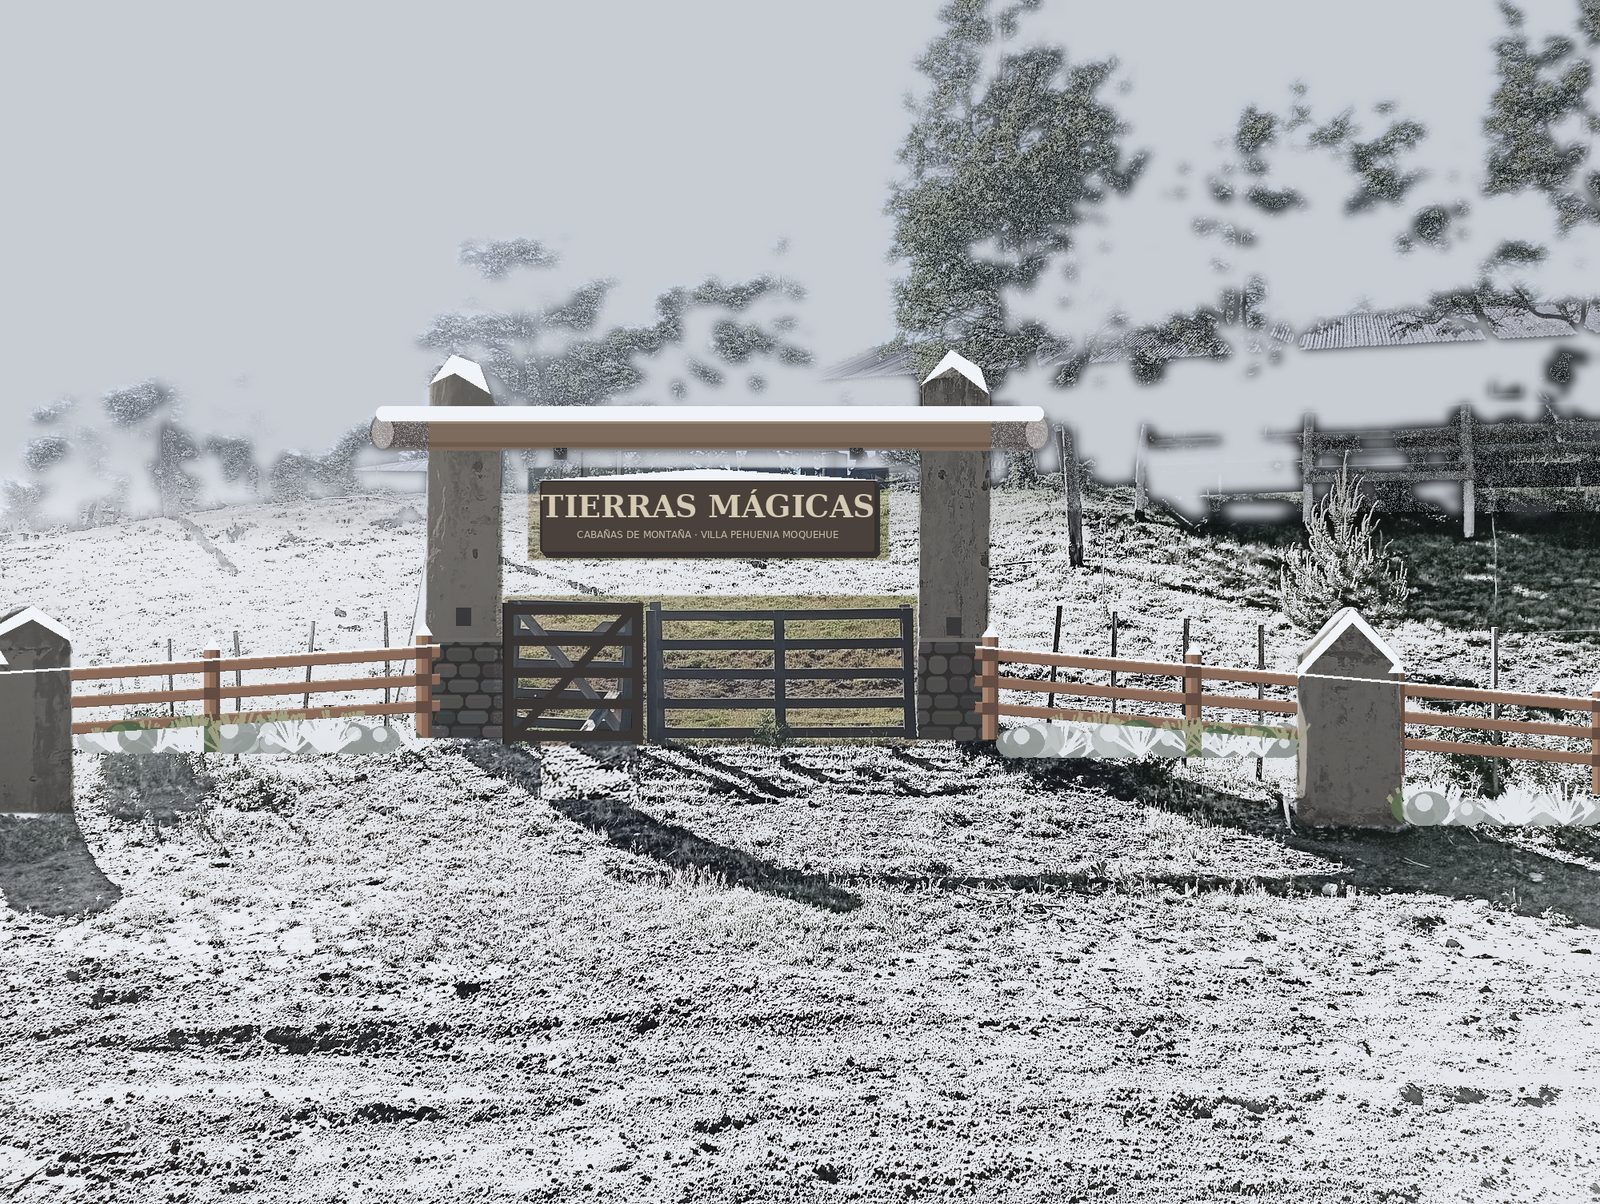
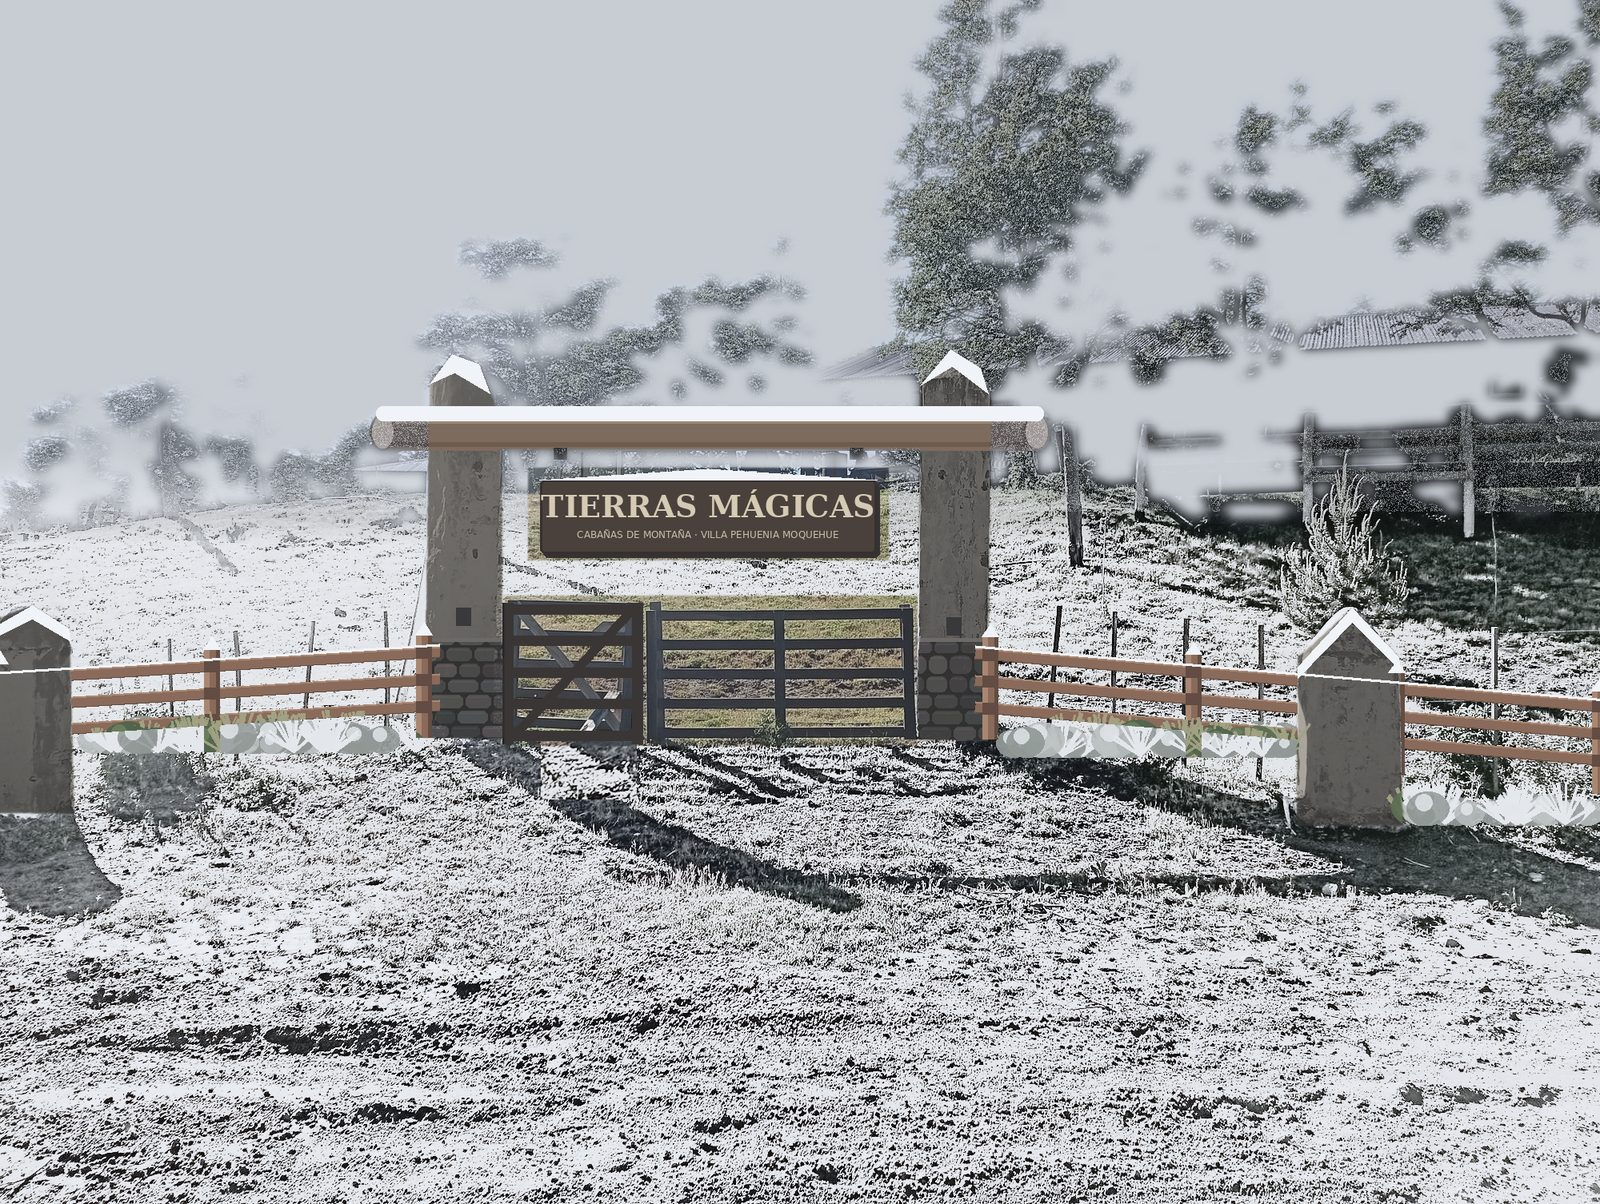
Acceso rev. 3: vista desde el interior y hallazgos de las fotos internas
Portal de 6 m confirmado. Fotomontaje interior con cara 'Buen viaje',
pantalla vegetal para la tina, obra vial en la RP 11, cajas del pilar
de medidores en ambas caras y tanques de gas.

Claude-Session: https://claude.ai/code/session_01JmsTv2qsXNt3Kgp45ve7Pd

diff --git a/docs/acceso/index.html b/docs/acceso/index.html
@@ -69,9 +69,9 @@ footer{margin-top:56px;padding-top:16px;border-top:1px solid var(--line);font-si
 
 <div class="wrap">
 <header class="portada">
-  <span class="eyebrow">PLC-02 · Anteproyecto · revisión 2 · 28/11/2026</span>
+  <span class="eyebrow">PLC-02 · Anteproyecto · revisión 3 · 28/11/2026</span>
   <h1>Rediseño y refacción del acceso a Tierras Mágicas</h1>
-  <p class="lead">RP 11 Km 8,2, Villa Pehuenia Moquehue, Neuquén. Análisis de las 11 fotos del estado actual, tres alternativas con reuso de lo existente, alternativa recomendada por etapas, cómputo y plan de ejecución. Las imágenes de propuesta son fotomontajes ilustrativos sobre las fotos originales, no renders fotorrealistas.</p>
+  <p class="lead">RP 11 Km 8,2, Villa Pehuenia Moquehue, Neuquén. Análisis de 18 fotos del estado actual (11 desde la ruta y 7 desde el interior), tres alternativas con reuso de lo existente, alternativa recomendada por etapas, cómputo y plan de ejecución. Las imágenes de propuesta son fotomontajes ilustrativos sobre las fotos originales, no renders fotorrealistas.</p>
   <div class="ficha">
     <div><b>Decisión a tomar</b>Qué alternativa ejecutar y qué etapa hacer antes de la temporada alta de enero</div>
     <div><b>Recomendación</b>Alternativa 2 «Patagónico natural», en 3 etapas; la etapa 1 entra en diciembre</div>
@@ -89,7 +89,7 @@ footer{margin-top:56px;padding-top:16px;border-top:1px solid var(--line);font-si
     <li><b>Dirección:</b> RP 11 Km 8,2. Ojo: el plano municipal de relevamiento rotula la ruta como «RP Nº 11 Km 11»; conviene que coincidan en la próxima presentación.</li>
     <li><b>Texto del cartel:</b> «Tierras Mágicas · Cabañas de montaña · Villa Pehuenia Moquehue».</li>
     <li><b>Frente sobre la ruta:</b> 59,54 m, con retiro de frente de 2,00 m (plano municipal, lámina 1/3). Lote de 3608,70 m².</li>
-    <li><b>Luz entre pilares del portal:</b> unos 6 m.</li>
+    <li><b>Luz entre pilares del portal:</b> 6 m (confirmado).</li>
     <li><b>Viga del portal:</b> está podrida y se reemplaza en todas las alternativas.</li>
     <li><b>Pilar de medidores:</b> se puede revestir.</li>
     <li><b>Cerca:</b> se adopta la tipología de las fotos de referencia: postes escuadrados con punta y 3 travesaños pasantes.</li>
@@ -229,7 +229,28 @@ footer{margin-top:56px;padding-top:16px;border-top:1px solid var(--line);font-si
   <figure><img src="fotos/F09.jpg" alt="Vista actual desde la ruta"><figcaption>Actual · F09 desde la ruta.</figcaption></figure>
   <figure><img src="montajes/A2_vista_desde_ruta_F09.jpg" alt="Vista desde la ruta con la alternativa 2"><figcaption>Alternativa 2 · mojones en gris piedra, cerca de travesaños, zócalo bajo los medidores, placa de ingreso vehicular y tabla en el portal.</figcaption></figure>
 </div>
-<div class="aviso"><b>Vista desde el interior: las fotos no llegaron.</b> En la revisión 2 se recibieron el plano y las 2 fotos de referencia de la cerca, pero ninguna foto desde adentro del predio hacia la ruta. Para representarla hacen falta 2 fotos: una desde el quincho hacia el portal y otra desde el camino interno hacia la tranquera, a la altura de los ojos. El criterio desde adentro es el mismo: la cara interior de pilares y mojones lleva la misma terminación, y la tabla del cartel puede llevar del lado de adentro «Buen viaje».</div>
+<h3>Desde el interior</h3>
+<div class="grid2">
+  <figure><img src="montajes/I04_interior_actual.jpg" alt="Portal visto desde adentro, estado actual"><figcaption>Actual · I04. Desde adentro, el portal enmarca los picos nevados. La cara interior del portón está gris, sin pintar.</figcaption></figure>
+  <figure><img src="montajes/A2_vista_desde_interior_I04.jpg" alt="Portal visto desde adentro con la alternativa 2"><figcaption>Alternativa 2 · viga nueva, pilares en gris piedra con zócalo, portón pintado en las dos caras, cerca del lado de adentro de los mojones y la cara interior del cartel con «Buen viaje».</figcaption></figure>
+</div>
+<h3>Lo que muestran las 7 fotos del interior</h3>
+<div class="tabla"><table>
+<thead><tr><th>Foto</th><th>Hallazgo</th><th>Consecuencia para el proyecto</th></tr></thead>
+<tbody>
+<tr><td class="mono">I01, I05, I06</td><td><span class="tag t-hecho">HECHO</span> Hay obra vial en la RP 11: cartel de desvío, mixer, cisterna, máquinas y polvo.</td><td>Antes de fijar el borde exterior, consultar a Vialidad Provincial si cambia el nivel, el ancho o los desagües de la ruta. Plantar la faja exterior cuando termine la obra.</td></tr>
+<tr><td class="mono">I02, I04</td><td><span class="tag t-hecho">HECHO</span> Entre la cerca y la calzada hay una franja ancha de tierra removida, con una huella en Y que conecta con la ruta.</td><td>Hace de antesala del acceso. No se planta ni se construye ahí hasta saber si es parte del lote o zona de camino.</td></tr>
+<tr><td class="mono">I04</td><td><span class="tag t-hecho">HECHO</span> Desde adentro, el portal enmarca los picos nevados.</td><td>Es la mejor visual del frente. El cartel del lado interior queda chico y no se plantan árboles en ese eje.</td></tr>
+<tr><td class="mono">I04, I05</td><td><span class="tag t-hecho">HECHO</span> La cara interior de los portones está gris, sin pintar.</td><td>El impregnante va en las dos caras, porque desde las cabañas también se ven.</td></tr>
+<tr><td class="mono">I01, I02</td><td><span class="tag t-hecho">HECHO</span> El pilar de medidores tiene cajas en las dos caras. Del lado de adentro hay un tablero con térmicas y una caja a unos 0,30 m del suelo.</td><td>El zócalo de piedra bordea las cajas dejando 5 cm libres, o se baja a 0,35 m. Que el electricista confirme si el circuito de luces puede salir de ese tablero.</td></tr>
+<tr><td class="mono">I02</td><td><span class="tag t-hecho">HECHO</span> La tranquera vehicular tiene una hoja grande, una chica y un panel fijo contra el mojón.</td><td>Se restaura completa; no hace falta reemplazarla.</td></tr>
+<tr><td class="mono">I01</td><td><span class="tag t-hecho">HECHO</span> Las varillas del alambrado son de hierro, con óxido.</td><td>Cuando se retire el alambrado se pueden reusar en cercos internos.</td></tr>
+<tr><td class="mono">I03, I04</td><td><span class="tag t-hecho">HECHO</span> Los mojones quedan del lado de la ruta y el alambrado del lado de adentro.</td><td>La cerca nueva sigue la línea del alambrado: desde la ruta se ven los mojones por delante y desde adentro, la cerca por delante.</td></tr>
+<tr><td class="mono">I05</td><td><span class="tag t-hecho">HECHO</span> Hay 3 tanques de gas en el sector derecho, cerca del ingreso vehicular.</td><td>No se ponen luminarias, cableado ni coníferas junto a los tanques. Se respetan las distancias que fije el gasista matriculado.</td></tr>
+<tr><td class="mono">I06</td><td><span class="tag t-hecho">HECHO</span> Desde la tina se ven la ruta, el tránsito de obra y el polvo. <span class="tag t-inf">INFERENCIA</span> Desde la ruta también se ve a quienes usan la tina.</td><td>Pantalla vegetal de nativas de 1,2 a 1,8 m entre la tina y la cerca, por debajo de la línea de la montaña (ver imagen).</td></tr>
+<tr><td class="mono">I07</td><td><span class="tag t-hecho">HECHO</span> En el extremo derecho, el renoval denso de ñires ya tapa la ruta.</td><td>Se conserva tal como está; no hace falta cerca de travesaños ahí, alcanza con el alambrado.</td></tr>
+</tbody></table></div>
+<figure style="margin-top:12px"><img src="montajes/00_tina_pantalla_vegetal_I06.jpg" alt="Ubicación de la pantalla vegetal entre la tina y la ruta"><figcaption>I06 · Dónde va la pantalla vegetal: tapa la ruta y deja ver el cerro.</figcaption></figure>
 
 <!-- ============ 6 ESTACIONES ============ -->
 <h2 id="estaciones"><span class="n">06</span>Alternativa 2 en las cuatro estaciones</h2>
@@ -425,6 +446,7 @@ footer{margin-top:56px;padding-top:16px;border-top:1px solid var(--line);font-si
 <tr><td>Iluminación</td><td>Luminarias</td><td>u</td><td class="num">1</td><td class="num">5</td><td class="num">9</td><td>Nuevo</td></tr>
 <tr><td></td><td>Cable en caño + zanja</td><td>m</td><td class="num">10</td><td class="num">59</td><td class="num">59</td><td>Nuevo</td></tr>
 <tr><td>Paisajismo</td><td>Plantas nativas</td><td>u</td><td class="num">35</td><td class="num">116</td><td class="num">175</td><td>Nuevo</td></tr>
+<tr><td></td><td>Pantalla de la tina, arbustos de 1,2-1,8 m</td><td>u</td><td class="num">—</td><td class="num">12</td><td class="num">12</td><td>Nuevo</td></tr>
 <tr><td></td><td>Cobertura 5 cm</td><td>m³</td><td class="num">0,6</td><td class="num">1,9</td><td class="num">2,9</td><td>Nuevo o del predio</td></tr>
 <tr><td></td><td>Ampliación de goteo</td><td>m</td><td class="num">15</td><td class="num">49</td><td class="num">73</td><td>Reutilizado + ampliación</td></tr>
 </tbody></table></div>
@@ -460,10 +482,10 @@ footer{margin-top:56px;padding-top:16px;border-top:1px solid var(--line);font-si
 <!-- ============ 13 ETAPAS ============ -->
 <h2 id="etapas"><span class="n">13</span>Plan de ejecución por etapas (alternativa 2)</h2>
 <ol class="etapas">
-  <li><b>Etapa 0 · Relevamiento y decisión (diciembre, 1 semana).</b> Ya están el frente, la luz del portal, el estado de la viga, el pilar de medidores, la dirección y el texto del cartel. Falta: medir el ingreso vehicular, el cerco interno, los pilares y los mojones; mandar las fotos desde el interior; encargar la viga y la madera de la cerca; pedir cotizaciones. <span class="tag t-dec">GATE</span> Seguir solo con medidas, verificación y precios.</li>
+  <li><b>Etapa 0 · Relevamiento y decisión (diciembre, 1 semana).</b> Ya están el frente, la luz del portal, el estado de la viga, el pilar de medidores, la dirección, el texto del cartel y las fotos del interior. Falta: medir el ingreso vehicular, el cerco interno, los pilares y los mojones; consultar a Vialidad por la obra de la ruta; encargar la viga y la madera de la cerca; pedir cotizaciones. <span class="tag t-dec">GATE</span> Seguir solo con medidas, verificación y precios.</li>
   <li><b>Etapa 1 · Imagen para la temporada alta (diciembre, antes de enero).</b> Equivale a la alternativa 1: limpieza, reparación y pintura gris piedra (antes, una muestra de 50 × 50 cm en un mojón), portones, <b>viga nueva</b> (por seguridad no conviene esperar: una viga podrida sobre un paso puede caer) y placa de ingreso vehicular. Mano de obra propia. Quita el efecto lápida desde el primer huésped de enero.</li>
   <li><b>Etapa 2 · Cerca y cartel (febrero-marzo).</b> Cerca de postes escuadrados con retiro del alambrado, tabla colgada de la viga nueva, travesaño en el camino interno, zanja y cañería para la iluminación.</li>
-  <li><b>Etapa 3 · Piedra, luz y plantas (marzo-abril, antes de las heladas).</b> Zócalos de piedra con temperatura favorable para el mortero, conexión y puesta en marcha de las luces, plantación de otoño con cobertura y goteo.</li>
+  <li><b>Etapa 3 · Piedra, luz y plantas (marzo-abril, antes de las heladas).</b> Incluye la pantalla vegetal de la tina. Zócalos de piedra con temperatura favorable para el mortero, conexión y puesta en marcha de las luces, plantación de otoño con cobertura y goteo.</li>
   <li><b>Etapa 4 · Opcional (siguiente temporada).</b> Elementos de la alternativa 3 que hagan falta según el resultado, por ejemplo el portón peatonal nuevo si el existente no se recupera bien.</li>
 </ol>
 
@@ -473,9 +495,8 @@ footer{margin-top:56px;padding-top:16px;border-top:1px solid var(--line);font-si
 <thead><tr><th>Tipo</th><th>Descripción</th><th>Mitigación</th></tr></thead>
 <tbody>
 <tr><td><span class="tag t-falta">FALTA</span></td><td>Ancho del ingreso vehicular, largo del cerco interno, altura y sección de pilares y mojones, cantidad exacta de mojones</td><td>Etapa 0; la planilla se recalcula sola</td></tr>
-<tr><td><span class="tag t-falta">FALTA</span></td><td>Fotos desde el interior hacia la ruta (no llegaron)</td><td>2 fotos a la altura de los ojos</td></tr>
 <tr><td><span class="tag t-falta">FALTA</span></td><td>Estado de la cabeza de los pilares donde apoyaba la viga podrida</td><td>Revisar al desmontar; reparar antes de apoyar la viga nueva</td></tr>
-<tr><td><span class="tag t-sup">SUPUESTO</span></td><td>Que «unos 6» sea la luz entre los pilares del portal, en metros</td><td>Confirmar; si es la distancia entre mojones, no cambia el tipo de cerca, solo dónde caen los postes</td></tr>
+<tr><td>Riesgo</td><td>La obra vial cambia el borde, el nivel o los desagües frente al lote</td><td>Consultar a Vialidad antes de la etapa 2; plantar la faja exterior al final de la obra</td></tr>
 <tr><td><span class="tag t-sup">SUPUESTO</span></td><td>Que los pilares sean de mampostería revocada (por el ladrillo a la vista en F11)</td><td>Confirmar picando un sector</td></tr>
 <tr><td><span class="tag t-sup">SUPUESTO</span></td><td>Que los postes del alambrado sean varillas finas de madera o hierro</td><td>Ver en obra; los torcidos se reemplazan</td></tr>
 <tr><td>Riesgo</td><td>El color gris piedra puede verse frío o demasiado oscuro en el lugar</td><td>Muestra en un mojón, mirada a distintas horas antes de pintar todo</td></tr>

diff --git a/docs/acceso/montajes/generar_montajes.py b/docs/acceso/montajes/generar_montajes.py
@@ -519,6 +519,69 @@ def diagnostico_portal():
     return img
 
 
+
+# ---------------- Vista desde el interior (I04) con alternativa 2 ----------------
+
+I04 = {
+    "pilar_izq": [(705, 668), (735, 645), (765, 665), (775, 700), (776, 1026), (704, 1026)],
+    "pilar_der": [(1205, 675), (1240, 655), (1275, 680), (1281, 720), (1279, 1028), (1202, 1028)],
+    "mojones": [[(463, 872), (498, 848), (532, 870), (541, 976), (462, 976)],
+                [(1392, 872), (1420, 850), (1448, 875), (1450, 956), (1391, 956)],
+                [(1928, 882), (1965, 860), (2000, 880), (2000, 996), (1928, 996)]],
+}
+
+
+def interior_alternativa_2():
+    img = Image.open(FOTOS / "I04.jpg").convert("RGB")
+    m = mascara(img.size, [I04["pilar_izq"], I04["pilar_der"]] + I04["mojones"])
+    img = teñir(img, m)
+    img = zocalo(img, I04["pilar_izq"], 976)
+    img = zocalo(img, I04["pilar_der"], 978)
+    # Cara interior del portón: hoy está gris sin pintar; se pinta igual que la exterior
+    a = np.asarray(img).astype(float)
+    x0, y0, x1, y1 = 778, 896, 1192, 1032
+    caja = a[y0:y1, x0:x1]
+    mx, mn = caja.max(axis=2), caja.min(axis=2)
+    madera = ((mx - mn) < 38) & (mx < 200)
+    caja[madera] = caja[madera] * 0.32 + np.array([30, 24, 20]) * 0.68
+    a[y0:y1, x0:x1] = caja
+    img = Image.fromarray(a.astype("uint8"))
+    frente = img.copy()
+    viga_nueva(img, 636, 1345, 711, 749)
+    # La cerca queda del lado de adentro de los mojones: se dibuja por delante
+    cerca_travesaños(img, [((0, 1000), (704, 1000), 85), ((1281, 1003), (2000, 1009), 85)],
+                     encima=mascara(img.size, [[(84, 700), (142, 700), (146, 1142), (84, 1142)]]))
+    # Cara interior del cartel: mensaje de despedida
+    d = ImageDraw.Draw(img)
+    cx, yt, an, al = 990, 775, 300, 64
+    for xc in (cx - an // 3, cx + an // 3):
+        d.line([xc, 749, xc, yt], fill=(40, 40, 40), width=3)
+    d.polygon([(cx - an // 2 - 5, yt), (cx, yt - 12), (cx + an // 2 + 5, yt)], fill=(36, 30, 26))
+    d.rounded_rectangle([cx - an // 2, yt, cx + an // 2, yt + al], radius=5, fill=(58, 40, 28), outline=(32, 22, 16), width=3)
+    f = ImageFont.truetype(SERIF, 28)
+    t = "BUEN VIAJE"
+    d.text((cx - d.textlength(t, font=f) / 2, yt + 8), t, font=f, fill=(226, 205, 160))
+    f2 = ImageFont.truetype(SANS, 13)
+    t2 = "GRACIAS POR ELEGIR TIERRAS MÁGICAS"
+    d.text((cx - d.textlength(t2, font=f2) / 2, yt + 44), t2, font=f2, fill=(210, 190, 150))
+    return img
+
+
+def tina_pantalla():
+    """Anota sobre I06 dónde conviene una pantalla vegetal entre la tina y la ruta."""
+    img = Image.open(FOTOS / "I06.jpg").convert("RGB")
+    capa = Image.new("RGBA", img.size, (0, 0, 0, 0))
+    d = ImageDraw.Draw(capa)
+    d.polygon([(130, 900), (560, 820), (1000, 760), (1150, 700), (1160, 800), (1020, 870), (600, 930), (150, 990)],
+              fill=(60, 140, 70, 110), outline=(40, 110, 50, 255))
+    f = ImageFont.truetype(SANS, 30)
+    for i, t in enumerate(["Pantalla de nativas 1,2-1,8 m entre la tina y la ruta:",
+                           "tapa tránsito y polvo, deja ver la montaña"]):
+        tw = d.textlength(t, font=f)
+        d.rounded_rectangle([600 - tw / 2 - 10, 640 + i * 44, 600 + tw / 2 + 10, 680 + i * 44], radius=8, fill=(20, 20, 20, 200))
+        d.text((600 - tw / 2, 643 + i * 44), t, font=f, fill=(255, 220, 120))
+    return Image.alpha_composite(img.convert("RGBA"), capa).convert("RGB")
+
 def guardar(img, nombre, ancho=1600):
     img = img.resize((ancho, int(ancho * img.height / img.width)), Image.LANCZOS)
     img.save(OUT / nombre, quality=82)
@@ -538,3 +601,6 @@ if __name__ == "__main__":
     guardar(primavera(a2), "A2_estacion_4_primavera.jpg")
     guardar(noche(a2), "A2_noche_iluminacion.jpg")
     guardar(ruta_alternativa_2(), "A2_vista_desde_ruta_F09.jpg")
+    guardar(Image.open(FOTOS / "I04.jpg"), "I04_interior_actual.jpg")
+    guardar(interior_alternativa_2(), "A2_vista_desde_interior_I04.jpg")
+    guardar(tina_pantalla(), "00_tina_pantalla_vegetal_I06.jpg")

diff --git a/docs/acceso/generar_computo.py b/docs/acceso/generar_computo.py
@@ -19,7 +19,7 @@ d["A1"].font = Font(bold=True)
 cab(d, 3, ["Código", "Dato", "Valor", "Unidad", "Estado", "Cómo medir"])
 datos = [
     ("FR", "Frente sobre RP 11 (plano municipal, lámina 1/3)", 59.54, "m", "DATO PLANO", "Cota del plano de relevamiento"),
-    ("AN", "Luz entre pilares del portal", 6, "m", "DATO DUEÑO (aprox.)", "Confirmar con cinta"),
+    ("AN", "Luz entre pilares del portal", 6, "m", "DATO DUEÑO (confirmado)", ""),
     ("AT", "Ancho del ingreso vehicular (tranquera + pilar de medidores)", 5, "m", "SUPUESTO", "Medir"),
     ("L1", "Cerca nueva sobre el frente = FR − AN − AT", "=C4-C5-C6", "m", "CALCULADO", ""),
     ("L2", "Otros tramos de cerca (laterales, si se suman)", 0, "m", "A DEFINIR", ""),
@@ -81,6 +81,7 @@ items = [
     ("Iluminación", "Cable subterráneo en caño + zanja", "m", "estimar en obra", 10, f"={N['L1']}+10", f"={L}+10", "NUEVO"),
     ("Paisajismo", "Faja de plantación", "m²", "L × FP", f"=0.3*{L}*{N['FP']}", f"={L}*{N['FP']}", f"={L}*{N['FP']}*1.5", "—"),
     ("Paisajismo", "Plantas nativas (mezcla, envase 1-3 L)", "u", "m² × DP", f"=ROUND(0.3*{L}*{N['FP']}*{N['DP']},0)", f"=ROUND({L}*{N['FP']}*{N['DP']},0)", f"=ROUND({L}*{N['FP']}*1.5*{N['DP']},0)", "NUEVO"),
+    ("Paisajismo", "Pantalla vegetal entre tina y ruta: arbustos nativos 1,2-1,8 m (calafate, michay, palo piche)", "u", "≈ 12 m de pantalla, 1 cada 1 m (SUPUESTO)", 0, 12, 12, "NUEVO"),
     ("Paisajismo", "Cobertura de chip de corteza o grava local 5 cm", "m³", "m² × 0,05", f"=0.05*0.3*{L}*{N['FP']}", f"=0.05*{L}*{N['FP']}", f"=0.05*{L}*{N['FP']}*1.5", "NUEVO / del predio"),
     ("Paisajismo", "Extensión del riego por goteo existente", "m", "", f"=0.3*{L}", f"={L}", f"={L}*1.5", "REUTILIZADO + ampliación"),
     ("Limpieza", "Retiro de ladrillos, ramas, piezas sueltas; perfilado de borde", "gl", "", 1, 1, 1, "Mano de obra propia"),
